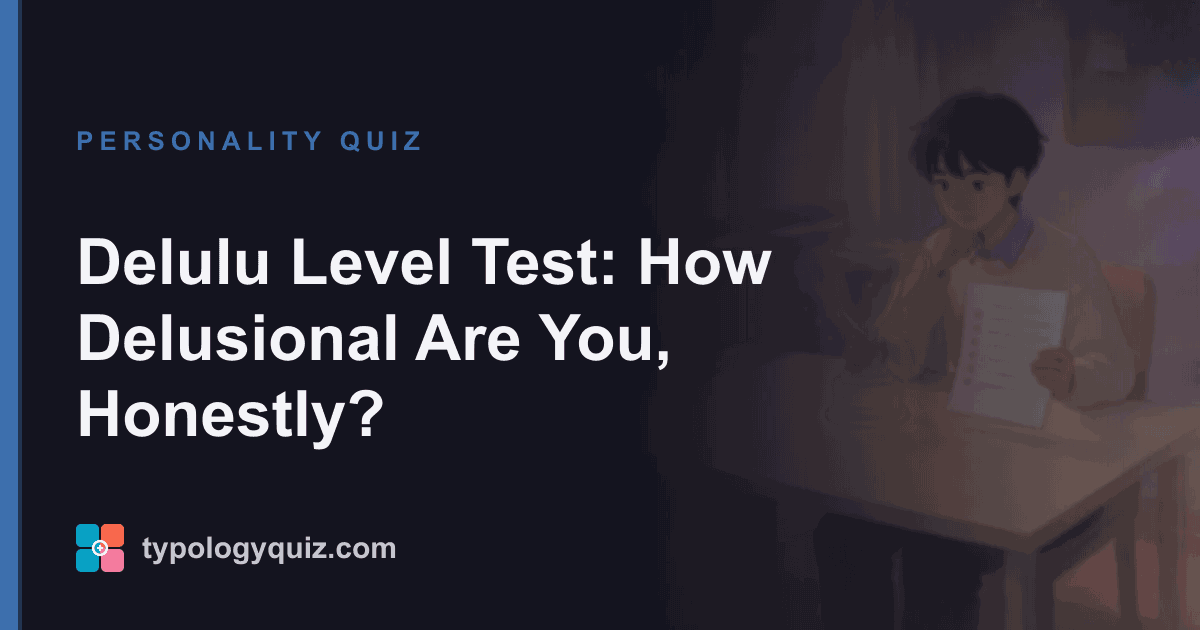
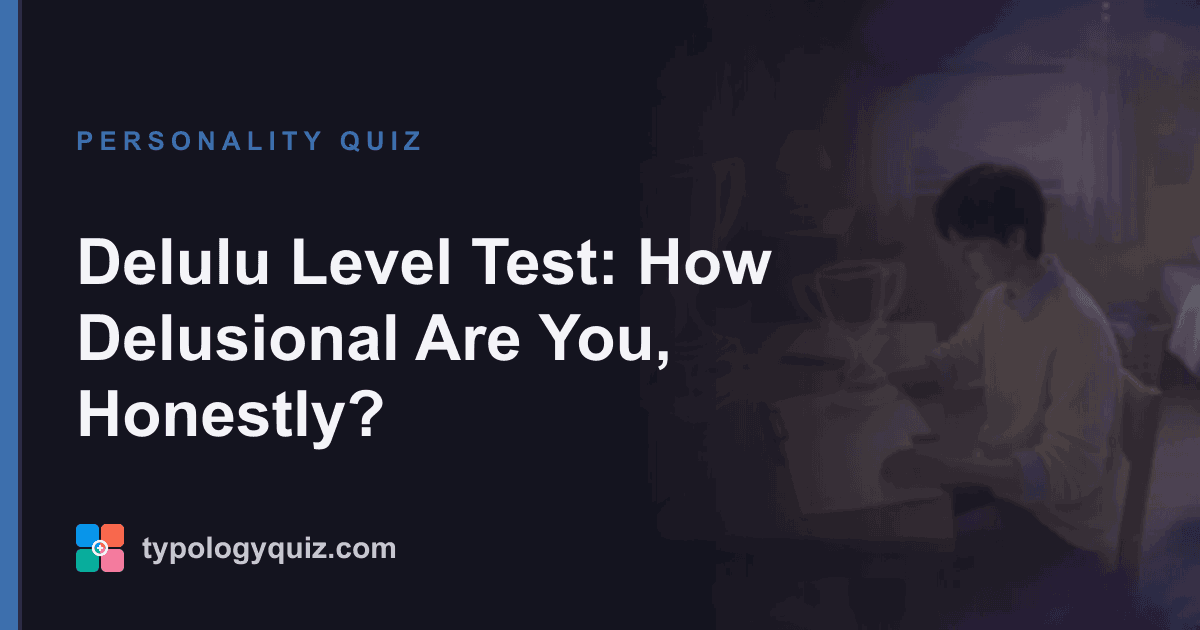
Rebuild delulu 3-5 on the new character so the five-band set is one person

diff --git a/public/results/_STAGING-NOTES.md b/public/results/_STAGING-NOTES.md
@@ -274,7 +274,7 @@ so the mat detector trims 0% on every one.
 | bg/kdrama-bestfriend.webp | photographic | painted, 78.8KB |
 | bg/kdrama-balanced.webp | photographic | painted, 101.7KB |
 
-Known, accepted: delulu-3 through delulu-5 still show the earlier character, so
-the five-band set is not one continuous person. Each player sees exactly one
-band, so the break is invisible in normal use; worth closing only if the set is
-ever shown together.
+Closed 2026-09-02: delulu-3 through delulu-5 were rebuilt from the new realist
+frame, so all five bands now share one character and the set reads as a single
+person's arc from grounded realist to full main character. All five are
+full-bleed 1280x720 and trim 0%.
